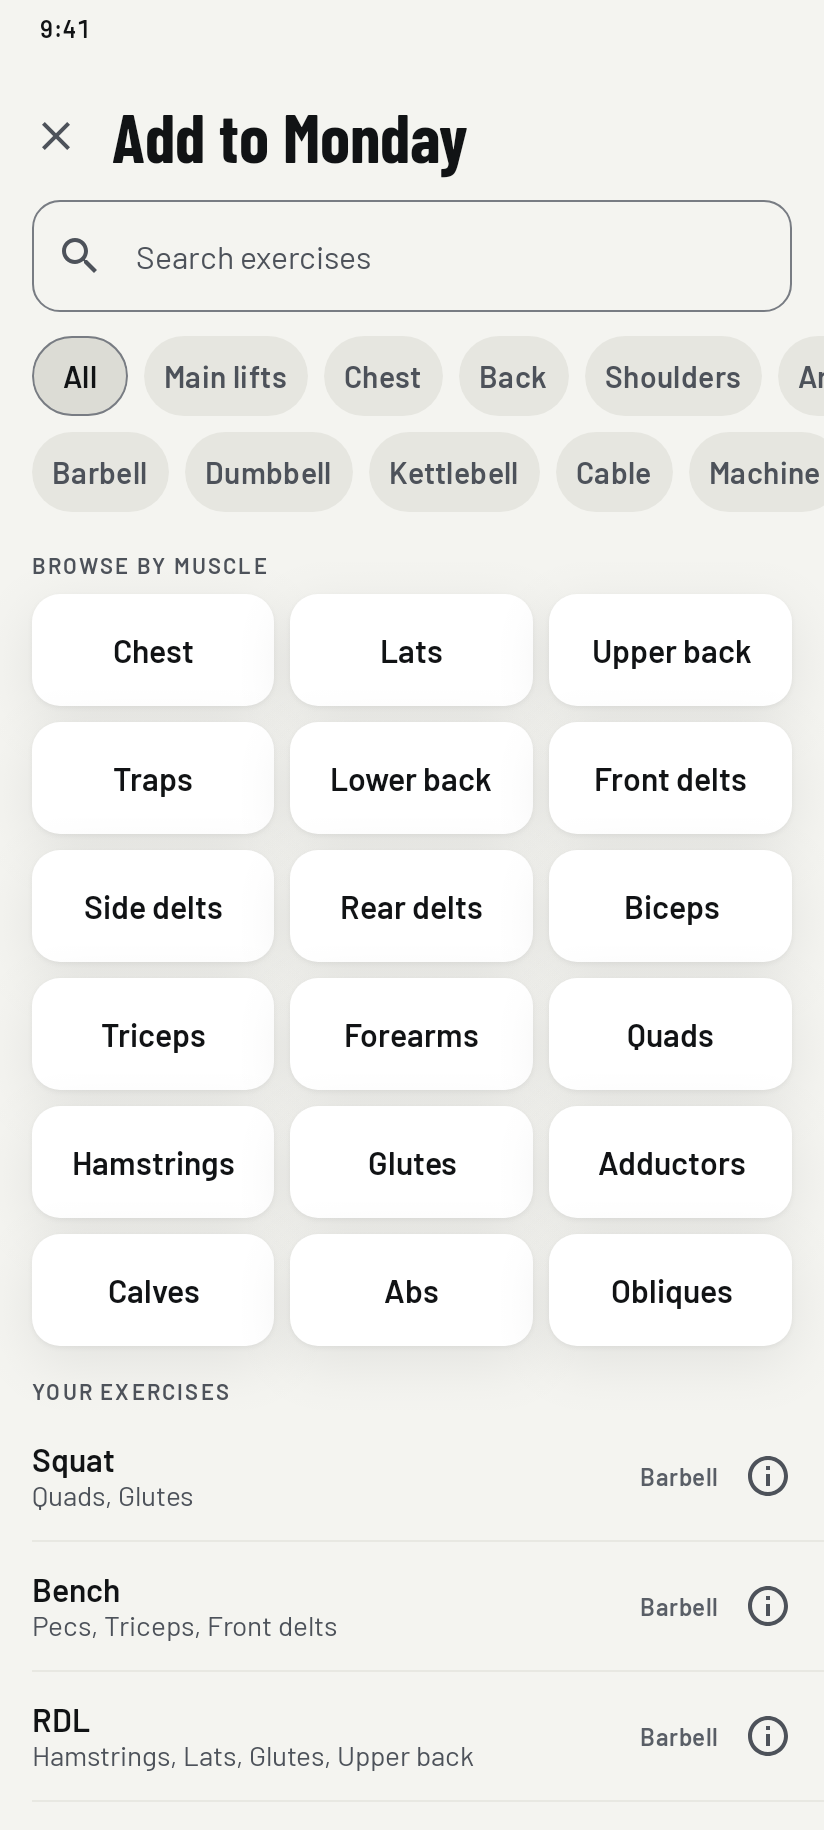
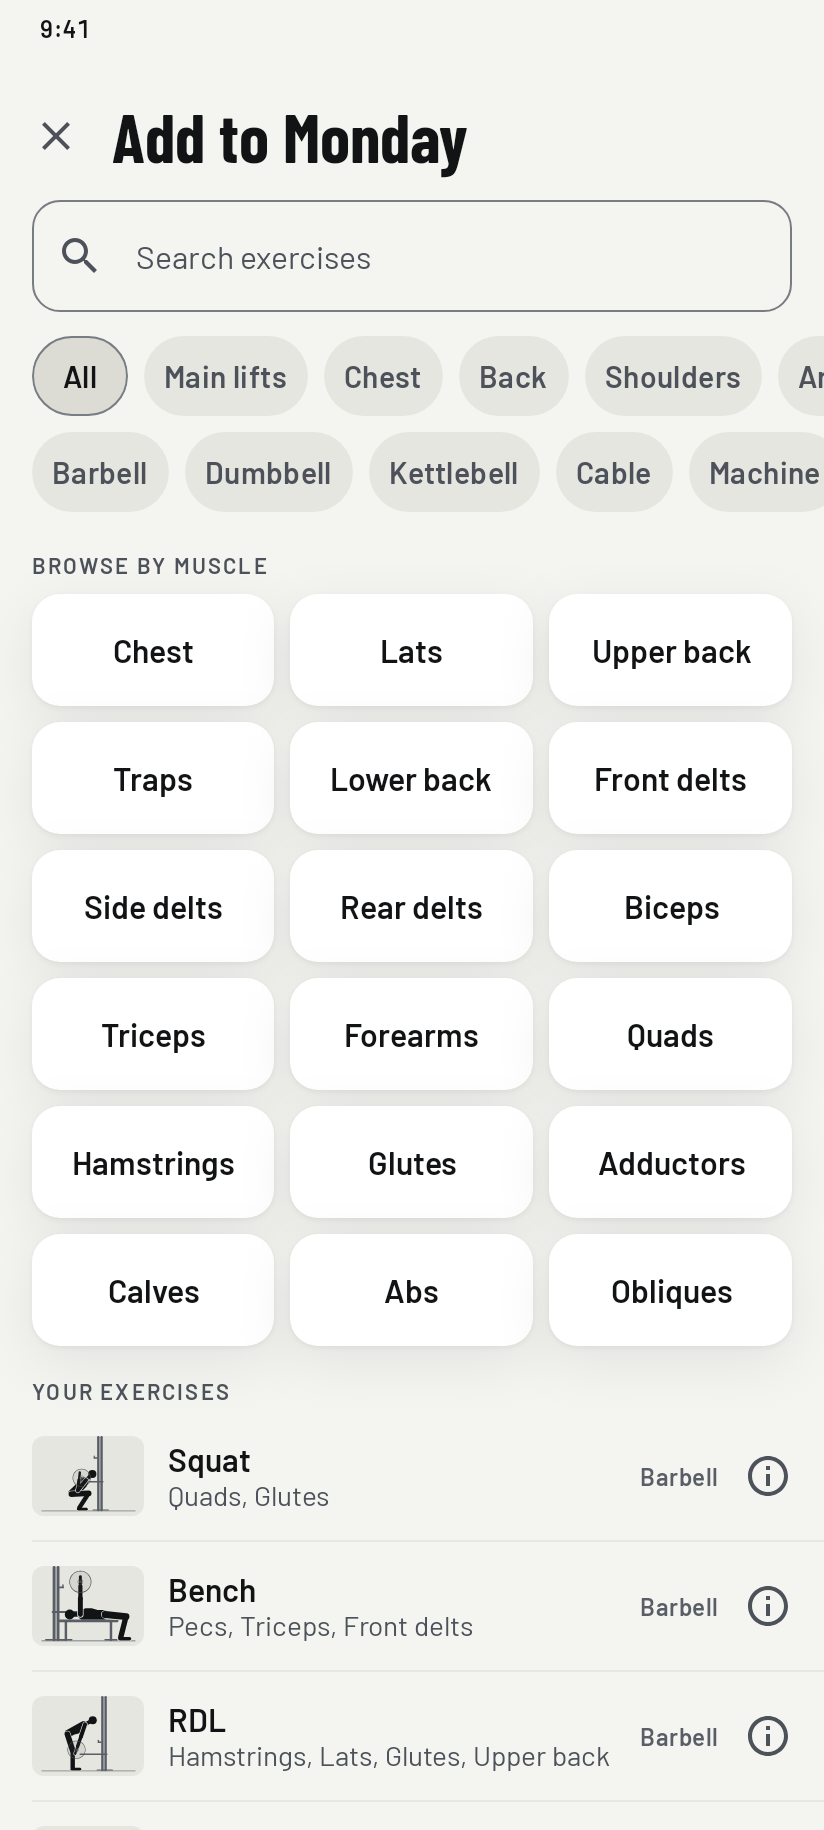
feat(app): thumbnails in the exercise picker
The picker (Plan's Add, Today's Add exercise) leads each row with the
Exercises tab's thumbnail, on both sides. It asks for the shared warm-up in
its own list's order; the loader keeps only the first request, so it still
runs once per process, on its background worker.

The plan builder is not switched on yet: at 320 dp its ticked rows would
break some names inside a word. That waits on the owner.

Claude-Session: https://claude.ai/code/session_01KboHw6FdBYrNDSMx1QWyzy

diff --git a/app/src/test/kotlin/com/powertracker/ui/library/ThumbnailsTest.kt b/app/src/test/kotlin/com/powertracker/ui/library/ThumbnailsTest.kt
@@ -16,8 +16,14 @@ import androidx.compose.ui.test.SemanticsMatcher
 import androidx.compose.ui.test.hasAnyAncestor
 import androidx.compose.ui.test.hasTestTag
 import androidx.compose.ui.test.junit4.createComposeRule
+import androidx.compose.ui.test.hasText
 import androidx.compose.ui.test.onNodeWithTag
+import androidx.compose.ui.test.onRoot
+import androidx.compose.ui.test.performClick
+import androidx.compose.ui.test.performTextClearance
+import androidx.compose.ui.test.performTextInput
 import androidx.compose.ui.test.performScrollToIndex
+import androidx.compose.ui.test.performScrollToNode
 import androidx.compose.ui.test.performTouchInput
 import androidx.compose.ui.test.swipeUp
 import com.powertracker.domain.library.Library
@@ -49,8 +55,8 @@ import java.util.concurrent.ConcurrentLinkedQueue
 import java.util.concurrent.atomic.AtomicInteger
 
 /**
- * The Exercises tab's thumbnails are worked out by a background worker: never on the main thread, an empty tile until
- * ready, no flash once ready, a head start for the whole catalogue, and nothing for the picker or own exercises. Each
+ * The thumbnails on the Exercises tab and in the picker are worked out by a background worker: never on the main thread,
+ * an empty tile until ready, no flash once ready, one head start for the whole catalogue, and nothing for own exercises. Each
  * test has a loader of its own (through [LocalThumbnails]), so none depends on what another left in the app's cache.
  */
 @RunWith(RobolectricTestRunner::class)
@@ -253,19 +259,154 @@ class ThumbnailsTest {
         assertEquals(catalogue.filter { it !in shown }, filtered.drop(3))
     }
 
+    private fun showPicker(loader: ThumbnailLoader) = show(loader) {
+        ExercisePickerContent("Add to Monday", seeded + own, listOf(seeded.first { it.name == "Bench" }.id), onPick = {}, onCreateCustom = { _, _, _, _ -> }, onClose = {})
+    }
+
     @Test
-    fun picker_startsNoThumbnailWork() {
-        val held = StandardTestDispatcher()
+    fun picker_neverWorksAThumbnailOutOnTheMainThread() {
+        val main = Looper.getMainLooper().thread
         val recording = Recording()
-        val loader = loader(recording, held)
-        show(loader) {
-            ExercisePickerContent("Add to Monday", seeded + own, listOf(seeded.first { it.name == "Bench" }.id), onPick = {}, onCreateCustom = { _, _, _, _ -> }, onClose = {})
-        }
+        val loader = loader(recording, Dispatchers.Default)
+        showPicker(loader)
+
+        // Into a muscle, down its list, back out and down the whole list, as a lifter would.
+        compose.onNodeWithTag("muscle-QUADS").performClick()
+        val list = compose.onNodeWithTag("exercise-list")
+        repeat(3) { list.performTouchInput { swipeUp() } }
+        compose.onNodeWithTag("exercise-search").performTextInput("press")
+        repeat(3) { list.performTouchInput { swipeUp() } }
+        compose.waitUntil(10_000) { composedRows().any(::drawn) }
+
+        assertTrue("the picker asked for the warm-up", loader.warmUpRequested)
+        assertTrue("thumbnails were worked out", recording.calls.any { it.first.startsWith("figure ") } && recording.calls.any { it.first == "shapes" })
+        val onMain = recording.calls.filter { it.second == main }.map { it.first }
+        assertTrue("worked out on the main thread: ${onMain.take(5)}", onMain.isEmpty())
+    }
+
+    /** Review Focus 2: the picker opened before the Exercises tab ever was. Names first, empty tiles, then pictures; nothing moves. */
+    @Test
+    fun picker_beforeTheTab_namesAndEmptyTilesFirst_thenTheDrawings() {
+        val held = StandardTestDispatcher()
+        showPicker(loader(Recording(), held))
+        compose.onNodeWithTag("exercise-list").performScrollToNode(hasTestTag("exercise-Bench"))
+
+        compose.onNode(hasText("Bench") and hasAnyAncestor(hasTestTag("exercise-Bench")), useUnmergedTree = true).assertExists()
+        val before = tile("Bench").fetchSemanticsNode().boundsInRoot
+        assertFalse(drawn("Bench"))
+        assertEquals("the same tile as an own exercise's", tile("Tyre flip").fetchSemanticsNode().boundsInRoot.size, before.size)
+
         held.scheduler.advanceUntilIdle()
         compose.waitForIdle()
+        assertTrue(drawn("Bench"))
+        assertEquals("nothing moves when the drawing arrives", before, tile("Bench").fetchSemanticsNode().boundsInRoot)
+        assertFalse("the lifter's own exercise stays an empty tile", drawn("Tyre flip"))
+    }
 
-        assertFalse(loader.warmUpRequested)
-        assertTrue(recording.looked.isEmpty())
+    /** One warm-up per process, whichever list asks first: the picker, then the tab, works each thumbnail out once. */
+    @Test
+    fun picker_thenTab_oneWarmUp_eachThumbnailOnce() {
+        val recording = Recording()
+        val loader = loader(recording, Dispatchers.Default)
+        var tab by mutableStateOf(false)
+        show(loader) {
+            if (tab) ExercisesContent(seeded + own, recentIds = listOf(seeded.first { it.name == "Bench" }.id), onOpen = {})
+            else ExercisePickerContent("Add to Monday", seeded + own, listOf(seeded.first { it.name == "Bench" }.id), onPick = {}, onCreateCustom = { _, _, _, _ -> }, onClose = {})
+        }
+        assertTrue(loader.warmUpRequested)
+        compose.waitUntil(60_000) { catalogue.all { loader.peek(it) != null } }
+
+        // The tab opened after the picker starts no second warm-up.
+        tab = true
+        compose.waitForIdle()
+        compose.onNodeWithTag("exercise-list").performScrollToNode(hasTestTag("exercise-Bench"))
+        assertTrue(drawn("Bench"))
+        Thread.sleep(200)
+        assertEquals("one at a time", 1, recording.mostAtOnce.get())
+        assertEquals("each worked out once", catalogue.size, recording.looked.size)
+        assertEquals(catalogue.toSet(), recording.looked.toSet())
+    }
+
+    /**
+     * Review Focus 1: typing quickly. After each of three letters, a row shows a picture only if its own is ready, and
+     * every picture drawn is its own exercise's: the same pixels as that exercise's tile showed before any search.
+     */
+    @Test
+    fun pickerSearch_eachRowShowsItsOwnPicture() {
+        val held = StandardTestDispatcher()
+        val loader = loader(Recording(), held)
+        // Only Bench is ready when the picker opens; the worker is held.
+        CoroutineScope(held).launch { loader.load("Bench") }
+        held.scheduler.advanceUntilIdle()
+        showPicker(loader)
+        val search = compose.onNodeWithTag("exercise-search")
+
+        for (letter in listOf("b", "e", "n")) {
+            search.performTextInput(letter)
+            compose.waitForIdle()
+            val rows = composedRows()
+            assertTrue("rows for \"$letter\"", rows.isNotEmpty())
+            for (row in rows.distinct()) assertEquals("$row after \"$letter\": drawn only if its own is ready", loader.peek(row) != null, drawn(row))
+        }
+
+        // With every thumbnail ready, each search's rows show their own pictures.
+        search.performTextClearance()
+        held.scheduler.advanceUntilIdle()
+        compose.waitForIdle()
+        val seen = HashMap<String, List<Int>>()
+        fun check(step: String) {
+            compose.waitForIdle()
+            val shot = screen()
+            val rows = composedRows().distinct().filter { onScreen(it, shot) }
+            assertTrue("rows on screen for $step", rows.size > 2)
+            for (row in rows) {
+                assertTrue("$row is drawn ($step)", drawn(row))
+                val pixels = tilePixels(row, shot)
+                val own = seen.getOrPut(row) { pixels }
+                // The same picture drawn lower or higher in the list differs only in a few edge pixels' smoothing (about
+                // 30 of its 8960); a different picture differs in well over a thousand. (Some exercises share a picture.)
+                val ownDiff = differing(own, pixels)
+                val nearestOther = seen.filterKeys { loader.peek(it)!!.shapes != loader.peek(row)!!.shapes }.values.minOfOrNull { differing(it, pixels) } ?: Int.MAX_VALUE
+                assertTrue("$row shows its own picture ($step): $ownDiff pixels off its own, $nearestOther off the nearest other", ownDiff <= 150 && ownDiff * 4 < nearestOther)
+            }
+        }
+        // Each picture the last search shows, as its own row showed it in the list before any search.
+        val last = catalogue.filter { "ben" in Library.normalise(it) }
+        assertTrue(last.size > 1)
+        for (name in last) {
+            compose.onNodeWithTag("exercise-list").performScrollToNode(hasTestTag("exercise-$name"))
+            compose.waitForIdle()
+            seen[name] = tilePixels(name, screen())
+        }
+        compose.onNodeWithTag("exercise-list").performScrollToIndex(0)
+        for (letter in listOf("b", "e", "n")) {
+            search.performTextInput(letter)
+            check("after \"$letter\"")
+        }
+        assertTrue("pictures were compared with others", seen.keys.map { loader.peek(it)!!.shapes }.distinct().size > 5)
+    }
+
+    /** The screen as drawn. */
+    private fun screen(): android.graphics.Bitmap {
+        compose.waitForIdle()
+        val view = (compose.onRoot().fetchSemanticsNode().root as androidx.compose.ui.platform.ViewRootForTest).view
+        return android.graphics.Bitmap.createBitmap(view.width, view.height, android.graphics.Bitmap.Config.ARGB_8888).also { view.draw(android.graphics.Canvas(it)) }
+    }
+
+    private fun onScreen(row: String, shot: android.graphics.Bitmap): Boolean {
+        val b = tile(row).fetchSemanticsNode().boundsInRoot
+        // Whole: a tile cut by the list's edge is left out.
+        val whole = tile(row).fetchSemanticsNode().size
+        return b.left >= 0 && b.top >= 0 && b.right <= shot.width && b.bottom <= shot.height && b.height.toInt() == whole.height && b.width.toInt() == whole.width
+    }
+
+    private fun differing(a: List<Int>, b: List<Int>): Int = if (a.size != b.size) Int.MAX_VALUE else a.indices.count { a[it] != b[it] }
+
+    private fun tilePixels(row: String, shot: android.graphics.Bitmap): List<Int> {
+        val b = tile(row).fetchSemanticsNode().boundsInRoot
+        val w = b.width.toInt()
+        val h = b.height.toInt()
+        return IntArray(w * h).also { shot.getPixels(it, 0, w, b.left.toInt(), b.top.toInt(), w, h) }.toList()
     }
 
     @Test

diff --git a/app/src/test/kotlin/com/powertracker/ui/library/ExercisePictureTest.kt b/app/src/test/kotlin/com/powertracker/ui/library/ExercisePictureTest.kt
@@ -43,6 +43,7 @@ import com.powertracker.domain.library.figure
 import com.powertracker.domain.library.figures.Role
 import com.powertracker.domain.model.Category
 import com.powertracker.domain.model.Exercise
+import com.powertracker.domain.model.TrainingMode
 import com.powertracker.domain.seed.SeedLibrary
 import com.powertracker.ui.design.assertTextsFit
 import com.powertracker.ui.theme.DarkColorScheme
@@ -68,8 +69,8 @@ import org.robolectric.annotation.GraphicsMode
 import kotlin.math.abs
 
 /**
- * The exercise pictures: the two-pose picture in the guide sheet and the thumbnails on the Exercises tab. "Bench" is
- * the exercise with a figure; a lookup that finds nothing stands in for one without.
+ * The exercise pictures: the two-pose picture in the guide sheet and the thumbnails on the Exercises tab and in the
+ * picker. "Bench" is the exercise with a figure; a lookup that finds nothing stands in for one without.
  */
 // Native graphics, so text is measured at its real size and the canvas really draws: the checks here depend on both.
 @RunWith(RobolectricTestRunner::class)
@@ -83,6 +84,7 @@ class ExercisePictureTest {
     private var scenario: ActivityScenario<ComponentActivity>? = null
 
     private var dark by mutableStateOf(true)
+    private var mode = TrainingMode.POWERLIFTING
 
     private val bench = Library.figure("Bench")!!
     private val label = "Picture: ${bench.startCaption}, then ${bench.endCaption}."
@@ -97,7 +99,7 @@ class ExercisePictureTest {
         RuntimeEnvironment.setFontScale(fontScale)
         scenario = ActivityScenario.launch(ComponentActivity::class.java).onActivity { activity ->
             activity.setContent {
-                PowertrackerTheme(darkTheme = dark) { Box(Modifier.fillMaxSize().background(MaterialTheme.colorScheme.surface)) { content() } }
+                PowertrackerTheme(mode = mode, darkTheme = dark) { Box(Modifier.fillMaxSize().background(MaterialTheme.colorScheme.surface)) { content() } }
             }
         }
         compose.waitForIdle()
@@ -270,14 +272,49 @@ class ExercisePictureTest {
         assertEquals("nothing is drawn on it", 0, colours.of(DarkColorScheme.onSurface) + colours.of(DarkPtColors.muted) + colours.of(DarkPtColors.accent))
     }
 
-    @Test
-    fun picker_hasNoThumbnails() {
-        val seeded = SeedLibrary.exercises()
-        show { ExercisePickerContent("Add to Monday", seeded + own, listOf(seeded.first { it.name == "Bench" }.id), onPick = {}, onCreateCustom = { _, _, _, _ -> }, onClose = {}) }
+    private fun tileOf(row: String): SemanticsNode =
+        compose.onNode(hasTestTag("exercise-thumbnail") and hasAnyAncestor(hasTestTag(row)), useUnmergedTree = true).fetchSemanticsNode()
 
-        compose.onNodeWithTag("exercise-list").performScrollToNode(hasTestTag("exercise-Bench"))
-        compose.onNodeWithTag("exercise-Bench", useUnmergedTree = true).assertExists()
-        compose.onAllNodesWithTag("exercise-thumbnail", useUnmergedTree = true).assertCountEquals(0)
+    private fun drawnIn(row: String): Boolean =
+        compose.onAllNodes(hasTestTag("thumbnail-drawing") and hasAnyAncestor(hasTestTag(row)), useUnmergedTree = true).fetchSemanticsNodes().isNotEmpty()
+
+    private fun textIn(row: String, text: String): SemanticsNode =
+        compose.onNode(androidx.compose.ui.test.hasText(text) and hasAnyAncestor(hasTestTag(row)), useUnmergedTree = true).fetchSemanticsNode()
+
+    @Test
+    fun picker_rowsShowThumbnail() {
+        val seeded = SeedLibrary.exercises()
+        for (side in TrainingMode.entries) {
+            scenario?.close()
+            mode = side
+            show { ExercisePickerContent("Add to Monday", seeded + own, listOf(seeded.first { it.name == "Bench" }.id), onPick = {}, onCreateCustom = { _, _, _, _ -> }, onClose = {}) }
+
+            val list = compose.onNodeWithTag("exercise-list")
+            list.performScrollToNode(hasTestTag("exercise-Bench"))
+            // The thumbnail is worked out in the background: wait for its drawing.
+            compose.waitUntil(10_000) { drawnIn("exercise-Bench") }
+            val row = node("exercise-Bench").boundsInRoot
+            val tile = tileOf("exercise-Bench")
+            // The tab's tile: about 56 × 40, at the left of the row, before the name, centred in the row's height.
+            assertEquals("$side", toPx(56), tile.boundsInRoot.width, 1f)
+            assertEquals("$side", toPx(40), tile.boundsInRoot.height, 1f)
+            assertEquals("$side", toPx(16), tile.boundsInRoot.left - row.left, 1f)
+            val benchName = textIn("exercise-Bench", "Bench").boundsInRoot
+            assertTrue("$side: the thumbnail is left of the name", tile.boundsInRoot.right < benchName.left)
+            assertEquals("$side", row.center.y, tile.boundsInRoot.center.y, 1f)
+            // Decorative, as on the tab: it says nothing, and the row's spoken name is unchanged.
+            assertNull(tile.config.getOrNull(SemanticsProperties.ContentDescription))
+            assertTrue(compose.onAllNodes(hasTestTag("exercise-thumbnail")).fetchSemanticsNodes().isEmpty())
+            compose.onNodeWithTag("exercise-Bench").assertHeightIsAtLeast(Space.touch)
+
+            // The lifter's own exercise: an empty tile of the same size, so its name lines up with Bench's.
+            list.performScrollToNode(hasTestTag("exercise-Tyre flip"))
+            val ownTile = tileOf("exercise-Tyre flip").boundsInRoot
+            assertEquals("$side: the same size as a drawn thumbnail", tile.boundsInRoot.size, ownTile.size)
+            assertEquals("$side", tile.boundsInRoot.left, ownTile.left, 0.5f)
+            assertFalse("$side: nothing is drawn for it", drawnIn("exercise-Tyre flip"))
+            assertEquals("$side: names stay aligned", benchName.left, textIn("exercise-Tyre flip", "Tyre flip").boundsInRoot.left, 0.5f)
+        }
     }
 
     @Test

diff --git a/app/src/main/kotlin/com/powertracker/ui/library/ExerciseBrowser.kt b/app/src/main/kotlin/com/powertracker/ui/library/ExerciseBrowser.kt
@@ -184,7 +184,7 @@ fun rememberExerciseBrowserState(muscleFilter: MuscleFilter, initialMuscle: Musc
 /**
  * Browsing the catalogue and the lifter's own exercises, shared by the picker and the Exercises tab:
  * search, body-area chips (one at a time), equipment chips (any of the chosen), then the rows, each
- * with its info button and, on the Exercises tab, its thumbnail. What a row tap and an info tap do is up to the screen.
+ * with its info button and, where [showThumbnails] is set, its thumbnail. What a row tap and an info tap do is up to the screen.
  *
  * By muscle it works one of two ways ([ExerciseBrowserState.muscleFilter]). As a grid, tiles lead
  * the list while nothing is searched and no body area is chosen; a tile lists that muscle's
@@ -208,7 +208,7 @@ fun ExerciseBrowser(
     modifier: Modifier = Modifier,
     /** Opens "Create your own"; null where exercises are only browsed. */
     onCreate: (() -> Unit)? = null,
-    /** A small picture at the left of each row: the Exercises tab has them, the picker does not. */
+    /** A small picture at the left of each row: the Exercises tab and the picker have them, the plan builder does not. */
     showThumbnails: Boolean = false,
     /**
      * Multi-select: when set, every row is a tick box showing whether its exercise is chosen, and a row tap ([onRow])
@@ -240,8 +240,9 @@ fun ExerciseBrowser(
     BackHandler(enabled = muscle != null) { state.browse(null) }
     if (showThumbnails) {
         val thumbnails = LocalThumbnails.current
-        // The head start: from the list's first showing, the loader's worker works out every catalogue thumbnail,
-        // in the order this list shows them. Only the first call counts, so it runs once per process.
+        // The head start: from the first showing of any list with thumbnails (the tab or the picker),
+        // the loader's worker works out every catalogue thumbnail, in the order that list shows them. Only the first
+        // call counts, so it runs once per process.
         LaunchedEffect(thumbnails) { thumbnails.warmUp(thumbnailOrder(list, byArea && area == null)) }
     }
 

diff --git a/app/src/main/kotlin/com/powertracker/ui/library/ExercisePickerScreen.kt b/app/src/main/kotlin/com/powertracker/ui/library/ExercisePickerScreen.kt
@@ -178,8 +178,8 @@ fun ExercisePickerScreen(
 }
 
 /**
- * The picker without its window: the shared [ExerciseBrowser] on its muscle grid, under a title and
- * a close button. Tapping a row picks it; tapping its info button only opens the guide.
+ * The picker without its window: the shared [ExerciseBrowser] on its muscle grid, each row with its thumbnail, under a
+ * title and a close button. Tapping a row picks it; tapping its info button only opens the guide.
  */
 @Composable
 fun ExercisePickerContent(
@@ -224,6 +224,7 @@ fun ExercisePickerContent(
             onInfo = { guideFor = it.name },
             rowLabel = { "Add $it" },
             onCreate = { creating = true },
+            showThumbnails = true,
         )
     }
 
